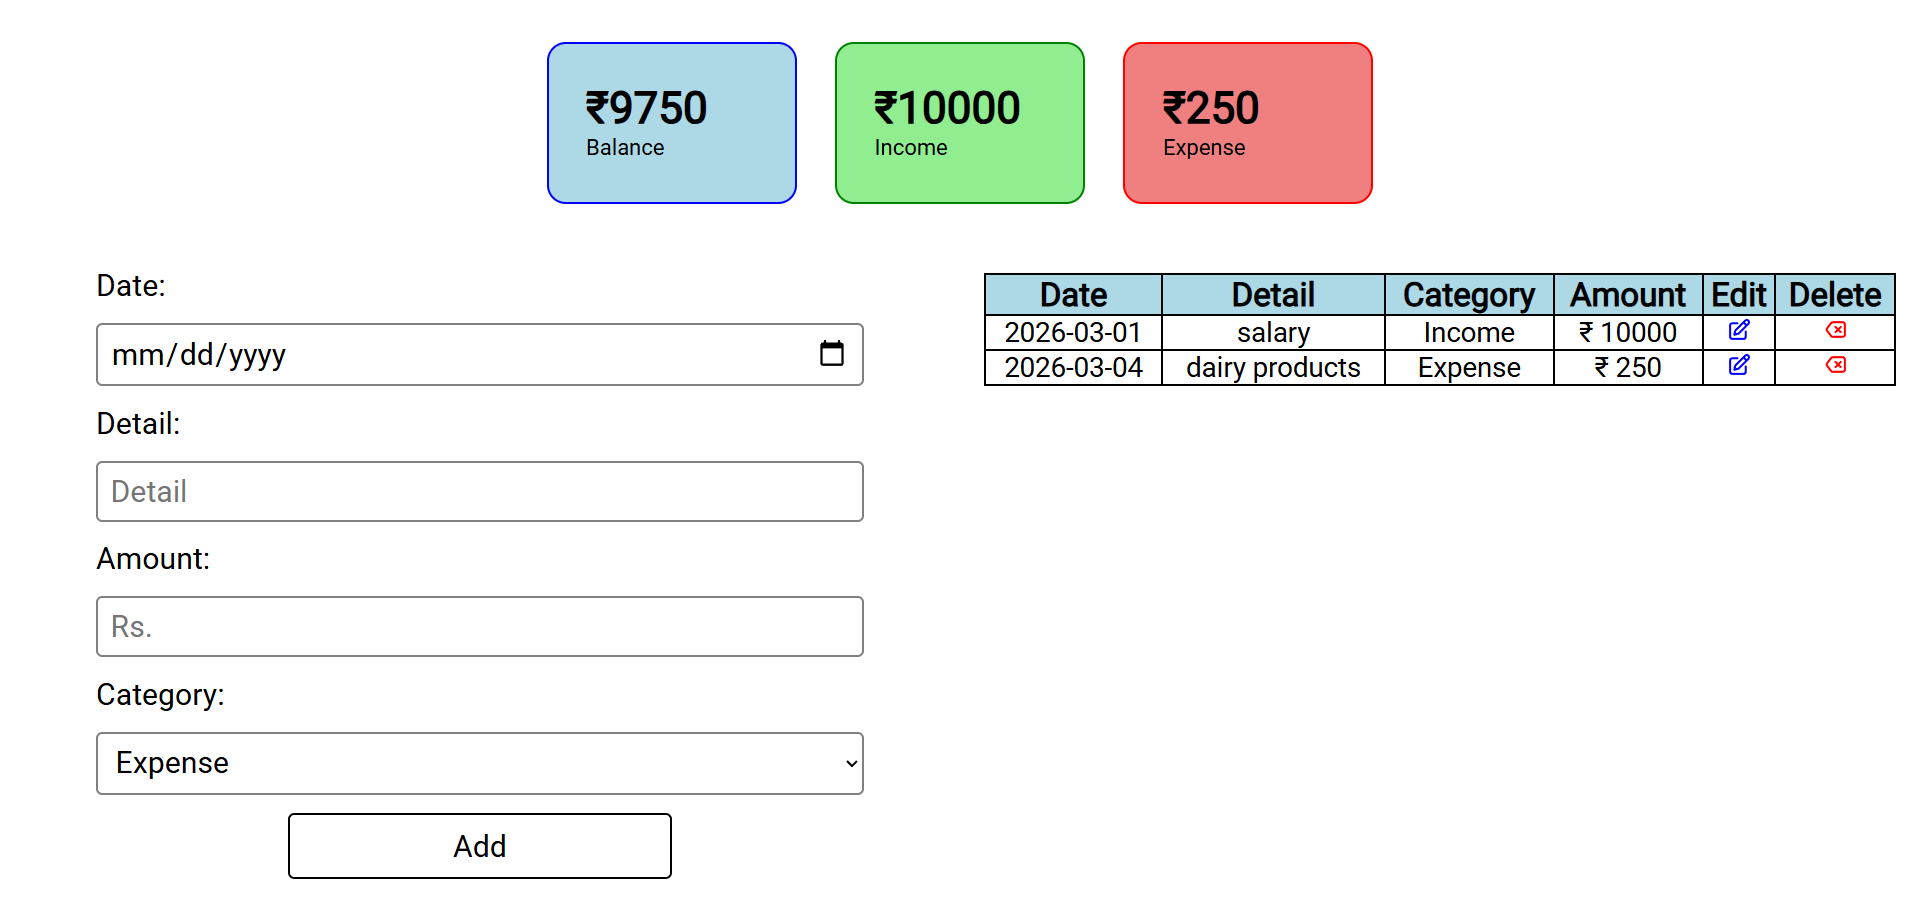
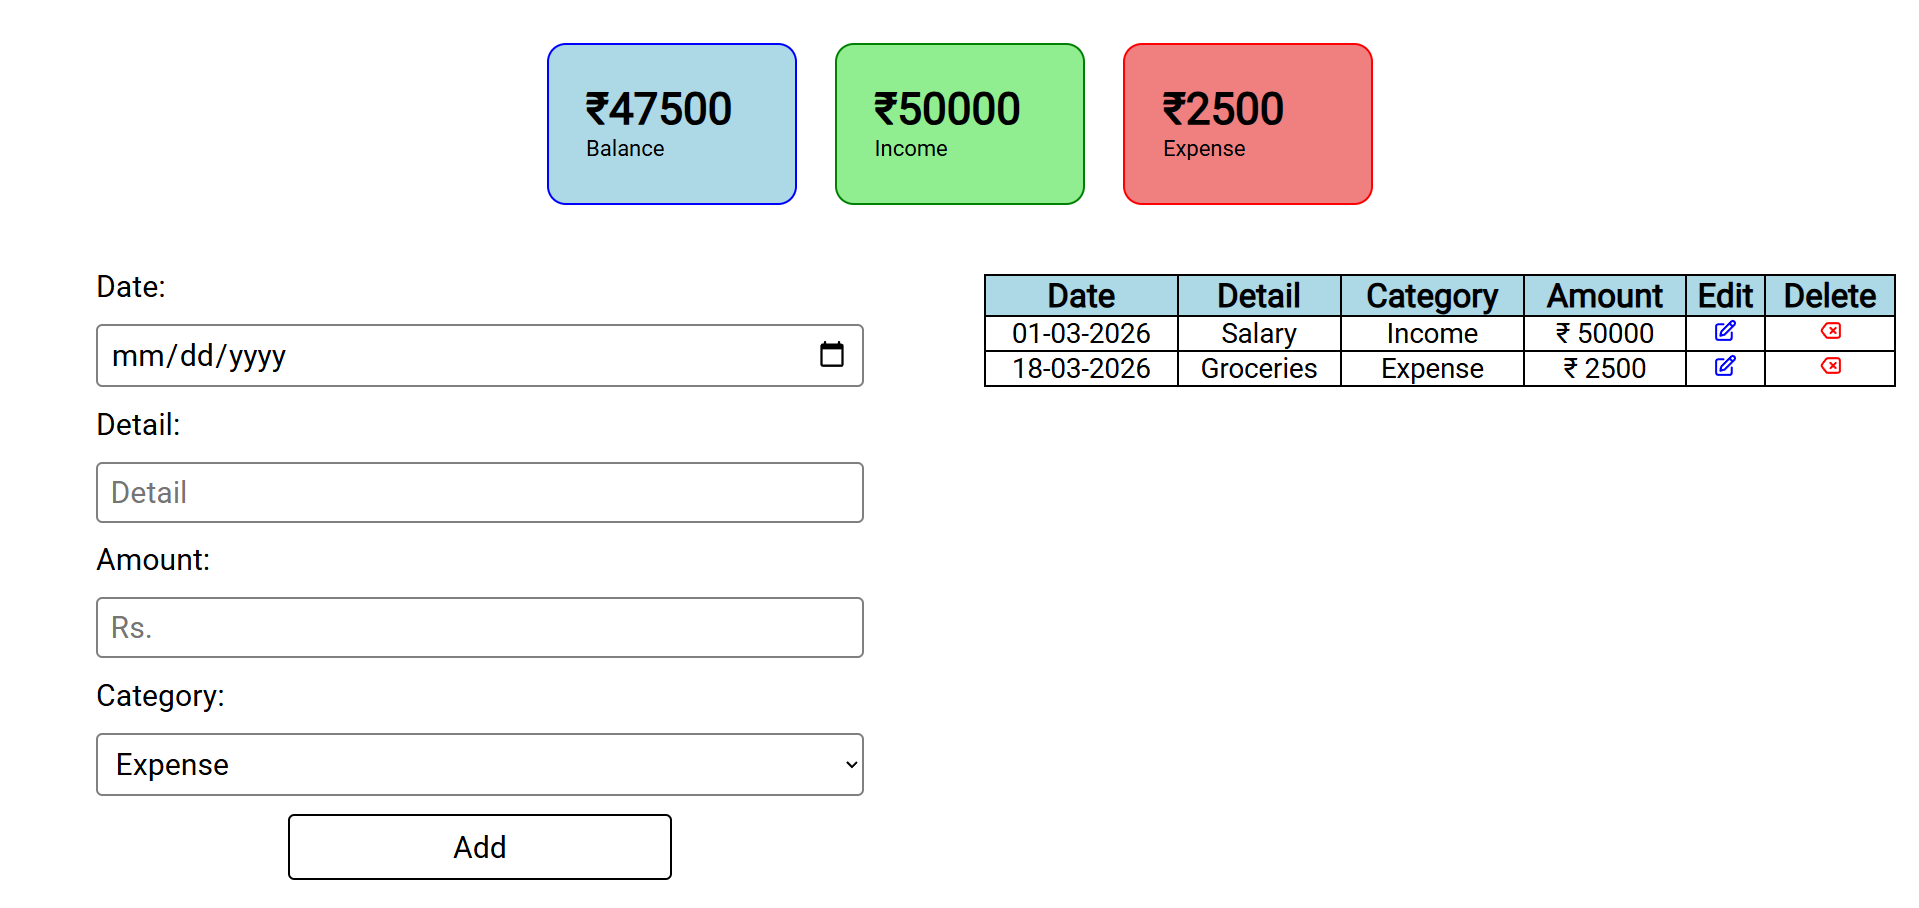
Readme updated

diff --git a/script.js b/script.js
@@ -5,6 +5,18 @@ const detail = document.getElementById("detail");
 const amount = document.getElementById("amount");
 const category = document.getElementById("category");
 
+/* Date Format */
+function formatDate(dateString) {
+  if (!dateString) return "";
+  const [year, month, day] = dateString.split("-");
+  return `${day}-${month}-${year}`;
+}
+
+function reverseDate(dateString) {
+  const [day, month, year] = dateString.split("-");
+  return `${year}-${month}-${day}`;
+}
+
 //add button
 const add_btn = document.getElementById("add_btn");
 
@@ -25,7 +37,7 @@ function renderTable() {
       <tr>
         <td hidden>${record.id}.</td>
         <td>${record.date}</td>
-        <td>${record.detail}</td>
+        <td style="text-transform: capitalize;">${record.detail}</td>
         <td>${record.category}</td>
         <td>₹ ${record.amount}</td>
         <td onclick="edit(${record.id})" style="cursor:pointer;">
@@ -115,7 +127,7 @@ add_btn.addEventListener("click", (e) => {
   e.preventDefault();
 
   let updated_id = Number(id_value.value);
-  let update_date = date_value.value;
+  let update_date = formatDate(date_value.value);
   let update_detail = detail.value;
   let update_category = category.value;
   let update_amount = amount.value;
@@ -177,7 +189,7 @@ add_btn.addEventListener("click", (e) => {
 function edit(id) {
   let obj = data_collection.find((record) => record.id === id);
   id_value.value = obj.id;
-  date_value.value = obj.date;
+  date_value.value = reverseDate(obj.date);
   detail.value = obj.detail;
   category.value = obj.category;
   amount.value = obj.amount;
@@ -222,7 +234,40 @@ function deleteRecord(id) {
 
 /* Load existing data when page reloads */
 window.onload = () => {
+
+  // added default examples
+  if (data_collection.length === 0) {
+    data_collection = [
+      {
+        id: 1,
+        date: "01-03-2026",
+        detail: "Salary",
+        category: "Income",
+        amount: 50000
+      },
+      {
+        id: 2,
+        date: "24-03-2026",
+        detail: "Groceries",
+        category: "Expense",
+        amount: 1500
+      }
+    ];
+
+    // Save to localStorage
+    localStorage.setItem("data_collection", JSON.stringify(data_collection));
+
+    // Set totals properly
+    income_value = data_collection[0].amount;
+    expense_value = data_collection[1].amount;
+    current_total_value();
+
+    localStorage.setItem("income_value", income_value);
+    localStorage.setItem("expense_value", expense_value);
+  }
+
   renderTable();
+
   income_amount.innerText = localStorage.getItem("income_value") || 0;
   expense_amount.innerText = localStorage.getItem("expense_value") || 0;
   balance_amount.innerText = localStorage.getItem("current_value") || 0;

diff --git a/README.md b/README.md
@@ -3,24 +3,32 @@
 A lightweight expense tracking web application built using Vanilla JavaScript. The application allows users to perform CRUD operations, 
 store data using Local Storage, and dynamically update the UI using DOM manipulation.
 
-## Preview
+### Preview
 ![Expense Tracker Preview](./Assets/Project_Preview.png)
 
-## Live Demo
+### Live Demo
 https://expense-tracker-sigma-fawn.vercel.app/
 
-## Features
+### Features
 - Add, delete and update expenses  
 - Real-time balance calculation  
 - Data persistence using Local Storage  
 - Dynamic UI updates using DOM manipulation  
 
-## Tech Stack
+### Tech Stack
 - HTML  
 - CSS  
 - JavaScript  
 
-## How to Run
+### What I Learned
+- Implementing CRUD operations using Vanilla JavaScript  
+- Managing and persisting data with Local Storage  
+- DOM manipulation for dynamic UI updates  
+- Handling user input and form validation  
+- Structuring clean and maintainable frontend code  
+- Improving problem-solving and debugging skills  
+
+### How to Run
 - Clone the repository
 - Navigate to the project directory
 - Open index.html in your browser
